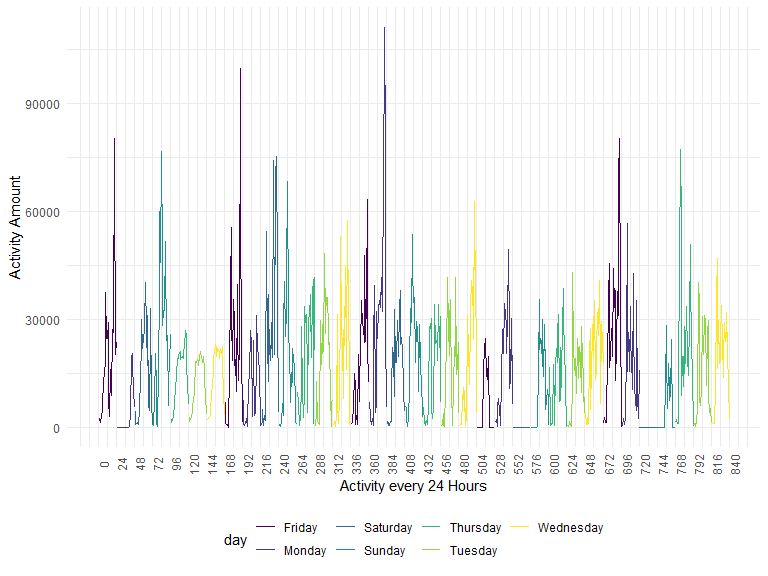
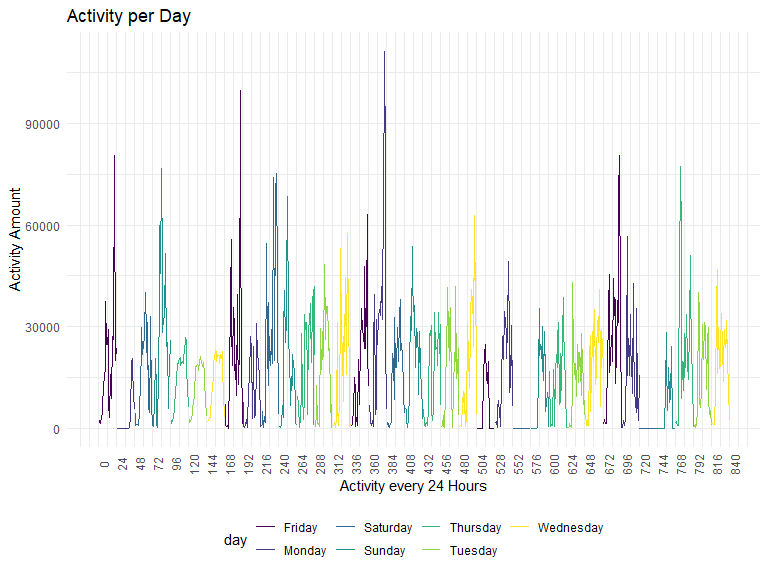
Final Edits

diff --git a/p8015_hw3_cs3779.md b/p8015_hw3_cs3779.md
@@ -95,6 +95,14 @@ brfss_smart2010
 
 ## Data Cleaning for *brfss\_smar2010* dataset:
 
+``` r
+names(brfss_smart2010)[] <- tolower(names(brfss_smart2010)[])
+
+brfss_smart2010 %>% 
+  filter(topic=="Overall Health") %>% 
+  count(response)
+```
+
     ## # A tibble: 5 x 2
     ##   response      n
     ##   <chr>     <int>
@@ -103,6 +111,18 @@ brfss_smart2010
     ## 3 Good       2125
     ## 4 Poor       2125
     ## 5 Very good  2125
+
+``` r
+brfss_smart2010 = 
+  brfss_smart2010 %>% 
+    filter(topic=="Overall Health",
+           response %in% c("Excellent", "Fair", "Good", "Poor")
+           ) %>%
+  mutate(
+    response = as.character(response),
+    response = factor(response,levels=c("Poor", "Fair", "Good", "Excellent"))
+  )
+```
 
 ### Question 2a
 
@@ -242,10 +262,6 @@ ny_plot_2010
 
 #### 2006 & 2010 Distribution of Response-Type Data Value by NY State Location
 
-``` r
-(ny_plot_2006) / (ny_plot_2010)
-```
-
 <img src="p8015_hw3_cs3779_files/figure-gfm/unnamed-chunk-16-1.png" width="90%" />
 
 In 2006, the data value for any given “poor” response-type seemed very
@@ -361,10 +377,11 @@ print(accel_df_table, n = Inf)
     ## 35     5       35 Wednesday         Weekday                     445366
 
 Looking at the table of total activity over the 35 days data was
-collected on the subject, there seems to be a trend towards less
-activity from Saturday to Monday compared to during the rest of the
-week. Additionally, it seems that there was less activity overall
-towards the end of the observation period.
+collected on the subject, there was overall more activity at the
+beginning of observation, which diminished over time. The amount of
+activity seems to be fairly consistent throughout the week, but then the
+amount of activity from Friday to Monday drastically shifts from a lot
+to very little.
 
 ## 24-Hour Activity by Day Followed
 
@@ -382,7 +399,7 @@ accel_df_plot =
     activity_min = as.numeric(activity_min)
   )
 
-accel_df_plot_1 = 
+accel_df_plot = 
   accel_df_plot %>% 
     group_by(activity_min = gl(ceiling(50400/60), 60, 50400)) %>% 
     mutate(hour_sum=sum(activity)) %>% 
@@ -391,10 +408,11 @@ accel_df_plot_1 =
     mutate(activity_hour = as.numeric(activity_hour))
 
 activity_plot = 
-  accel_df_plot_1 %>% 
+  accel_df_plot %>% 
   ggplot(aes(x=activity_hour, y=hour_sum, group=day_id)) +
     geom_line(aes(color=day)) + 
   labs(
+    title = "Activity per Day",
     x = "Activity every 24 Hours",
     y = "Activity Amount"
   ) +
@@ -408,34 +426,12 @@ activity_plot
 
 <img src="p8015_hw3_cs3779_files/figure-gfm/unnamed-chunk-20-1.png" width="90%" />
 
-``` r
-accel_df_plot = 
-  accel_df %>% 
-  pivot_longer(
-    activity_1:activity_1440,
-    names_to = "activity_min",
-    names_prefix = "activity_",
-    values_to = "activity"
-  ) %>% 
-  select(-total_activity) %>% 
-  mutate(
-    activity_min = as.numeric(activity_min),
-  )
-
-activity_plot = 
-  accel_df_plot %>% 
-  ggplot(aes(x=activity_min, y=activity, group=day_id)) +
-    geom_line(aes(color=day)) + 
-  labs(
-    x = "Activity by Minute",
-    y = "Activity Amount"
-  ) +
-  scale_x_continuous(
-    breaks = seq(0, 1440, 24)
-  ) +
-   theme(axis.text.x = element_text(angle=90))
-
-activity_plot
-```
-
-<img src="p8015_hw3_cs3779_files/figure-gfm/unnamed-chunk-21-1.png" width="90%" />
+The plot illustrates more clearly the patterns of activity that were
+seen in the above table. Where, at the initiation of observations there
+was overall a greater amount of activity than at the end of observation.
+A lot of the spike in activity occurred over the weekend, while activity
+was more or less steady throughout the weeekdays. Additionally, there
+are patterns of extremely small amounts of activity on a few Mondays and
+Sundays. This could be from forgetting to have worn the accelerometer,
+especially since the amount of activity is so small compared to all
+other times.
